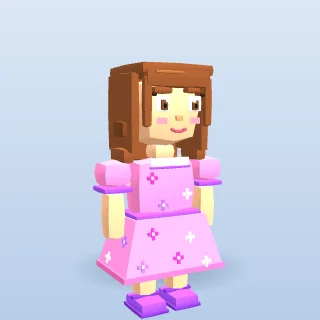
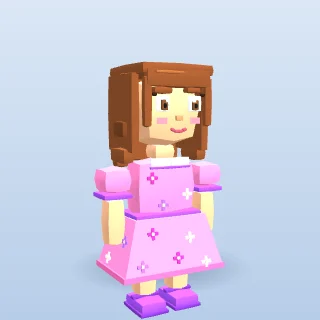
Redraw classic previews for lowered shoulders, v305

diff --git a/play.html b/play.html
@@ -21155,9 +21155,9 @@ function refreshAvatarPreviews() {
   const suffix = classicHeroes() ? '-classic' : '';
   document.querySelectorAll('#avatarGrid img[data-avatar-id]').forEach(img => {
     const base = 'avatars/previews/' + img.dataset.avatarId;
-    const src = base + suffix + '.webp?v=304';
+    const src = base + suffix + '.webp?v=305';
     if (img.getAttribute('src') === src) return;
-    img.onerror = () => { img.onerror = null; img.src = base + '-classic.webp?v=304'; };
+    img.onerror = () => { img.onerror = null; img.src = base + '-classic.webp?v=305'; };
     img.src = src;
   });
 }

diff --git a/avatars/previews/README.md b/avatars/previews/README.md
@@ -5,9 +5,10 @@ and procedural character builders. They replace full GLB downloads and a second
 WebGL renderer in the character picker. In-game models and animation are unchanged.
 
 The 22 standard portraits total 170,380 bytes. Including all 22 classic portraits,
-the total is 315,004 bytes (the classic set was redrawn in v303 to match Queen Fox and
+the total is 314,950 bytes (the classic set was redrawn in v303 to match Queen Fox and
 the dragon: soft rounded blocks, 3D eyes, no dark outlines; those two pictures are unchanged;
-v304 adds small soft mouths, Leo without top tufts and the Knight's closed helm). Previously the picker requested 22 GLB URLs on page
+v304 adds small soft mouths, Leo without top tufts and the Knight's closed helm; v305 drops
+the shoulders below the neck line). Previously the picker requested 22 GLB URLs on page
 load; the 16 existing files total 116,965,964 bytes (six requests had no model).
 These are asset sizes, not a measured tablet speedup.
 
